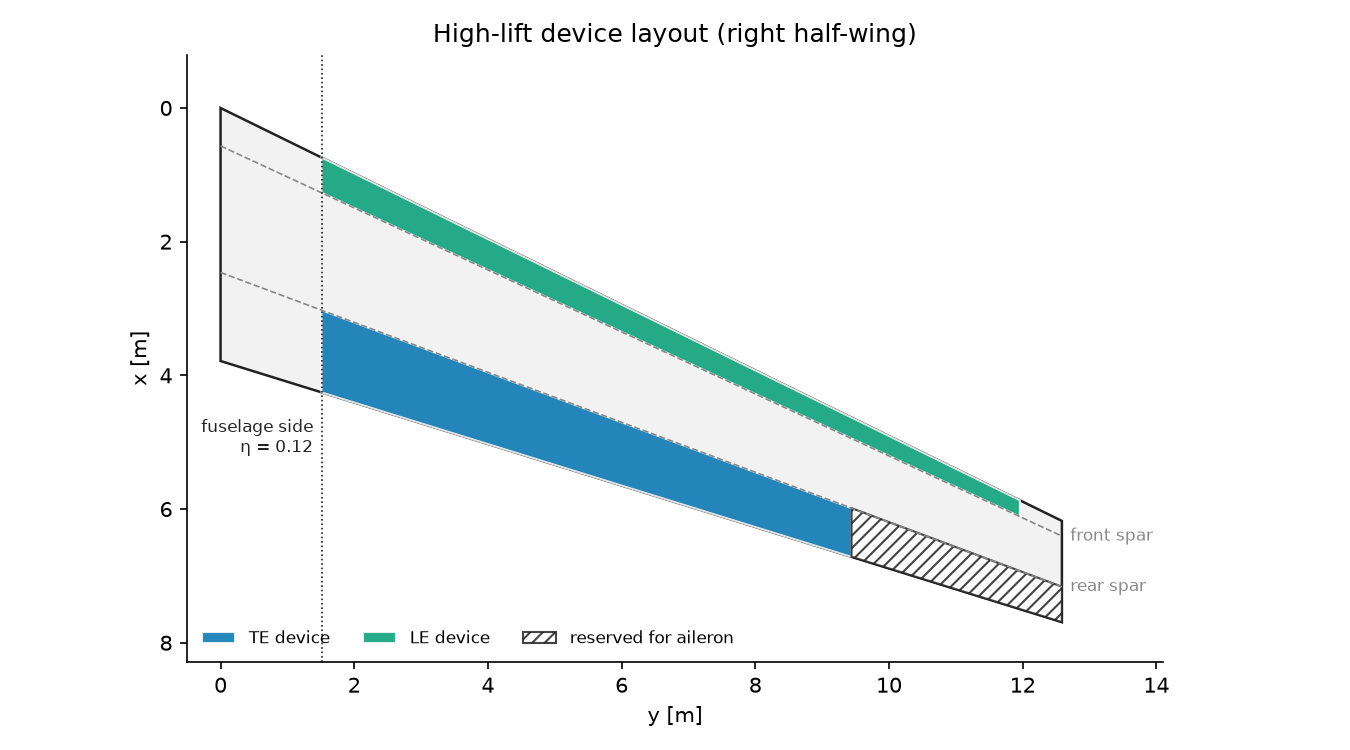
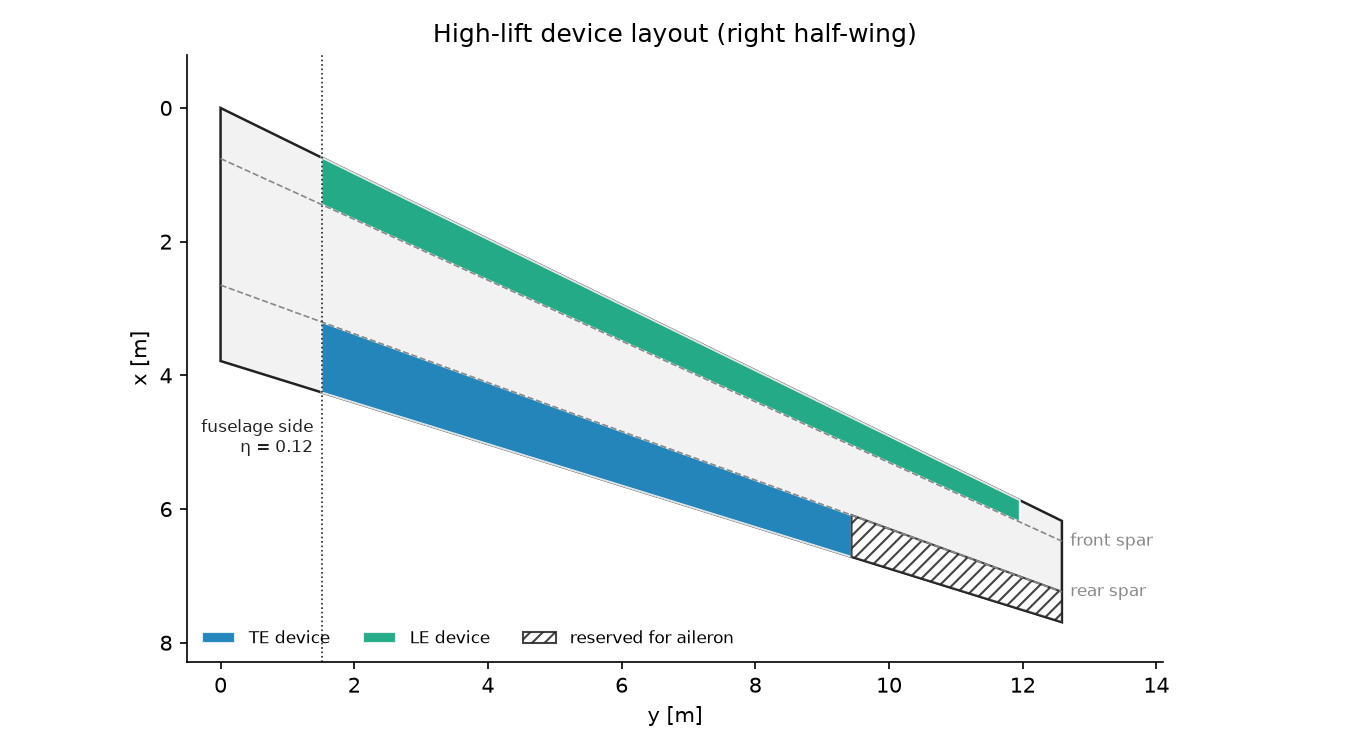
Updating HLDs

diff --git a/wp2/src/b12wp2/config/hld.py b/wp2/src/b12wp2/config/hld.py
@@ -60,7 +60,7 @@ DALPHA_0L_AIRFOIL_LANDING = -15.0
 DALPHA_0L_AIRFOIL_TAKEOFF = -10.0
 
 # Take-off setting as a fraction of the landing-setting dCL_max and c'/c - 1
-TAKEOFF_FRACTION = 0.6
+TAKEOFF_FRACTION = 0.7
 
 # --- spanwise limits (fraction of the semi-span) ---
 
@@ -70,8 +70,8 @@ ETA_OUT_LE = 0.95  # leading-edge devices run in front of the aileron, short of 
 
 # --- chordwise size, from the spar positions ---
 
-FRONT_SPAR = 0.15
-REAR_SPAR = 0.65
+FRONT_SPAR = 0.2
+REAR_SPAR = 0.7
 FLAP_CHORD_RATIO = 1.0 - REAR_SPAR  # c_f / c
 SLAT_CHORD_RATIO = FRONT_SPAR  # c_s / c
 

diff --git a/wp2/README.md b/wp2/README.md
@@ -354,6 +354,18 @@ Anaconda, Python 3.11.
    pip install -r <repo>\wp2\requirements.txt pytest
    ```
 
+5. Make the `b12wp2` package importable from anywhere in this env, by
+   putting a one-line `.pth` file (the absolute path of `wp2\src`) in the
+   env's `site-packages`:
+
+   ```
+   python -c "import sysconfig, pathlib; pathlib.Path(sysconfig.get_paths()['purelib'], 'b12wp2-src.pth').write_text(r'<repo>\wp2\src' + '\n')"
+   ```
+
+   Without it, `b12wp2` only resolves when you start from `wp2/` with
+   `python -m scripts.<name>`, or through the path fix at the top of the two
+   OpenVSP entry scripts.
+
 ### Verifying the install
 
 ```
@@ -384,6 +396,7 @@ file.
 | `ModuleNotFoundError: No module named 'openvsp'` | Wrong interpreter (e.g. the repo venv or system Python) | `conda activate openvsp` / select that interpreter in VS Code |
 | `ImportError: DLL load failed while importing _vsp` | Env Python is not 3.11, so the prebuilt `.pyd` doesn't match | Recreate the env with `python=3.11` |
 | `ModuleNotFoundError: No module named 'scripts'` | Started as a file from outside `wp2/` with an older copy of the script | Run `python -m scripts.<name>` from `wp2/` |
+| `ModuleNotFoundError: No module named 'b12wp2'` | A file under `src/b12wp2/` was started directly (a library module, it has no `main`), or the env has no `.pth` from step 5 | Run the entry point in `scripts/` instead; add the `.pth` (step 5) |
 | `ModuleNotFoundError: No module named 'xfoil'` | Something imported `b12wp2.xfoil.runtime` | The OpenVSP env has no XFoil; only the VSPAERO scripts run there. XFoil polars are generated from the repo venv (above) |
 | `RuntimeError: vspaero.exe not found` | `openvsp` installed without its executables (e.g. from another source) | Reinstall from the release's `python\openvsp` folder |
 
